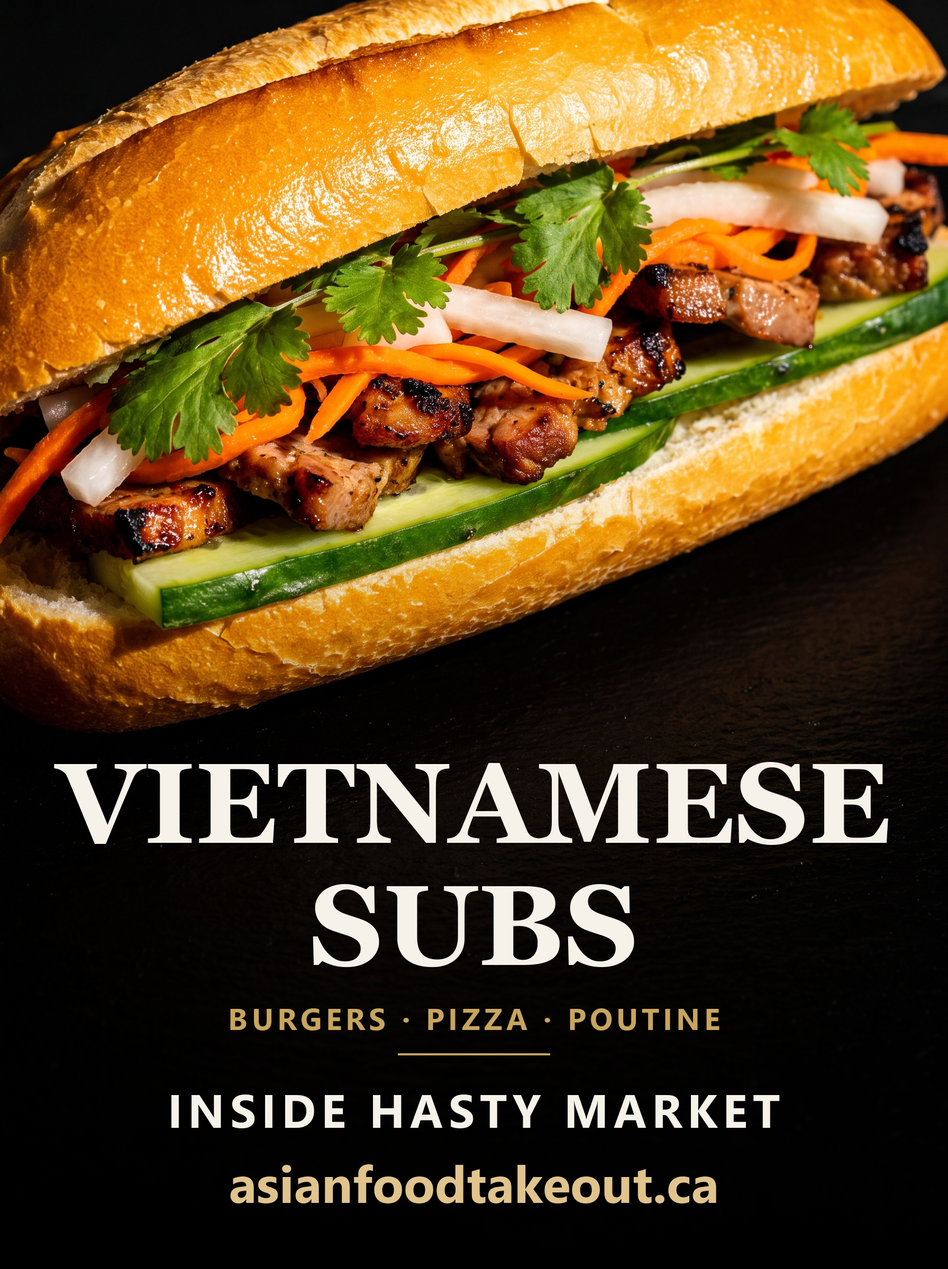
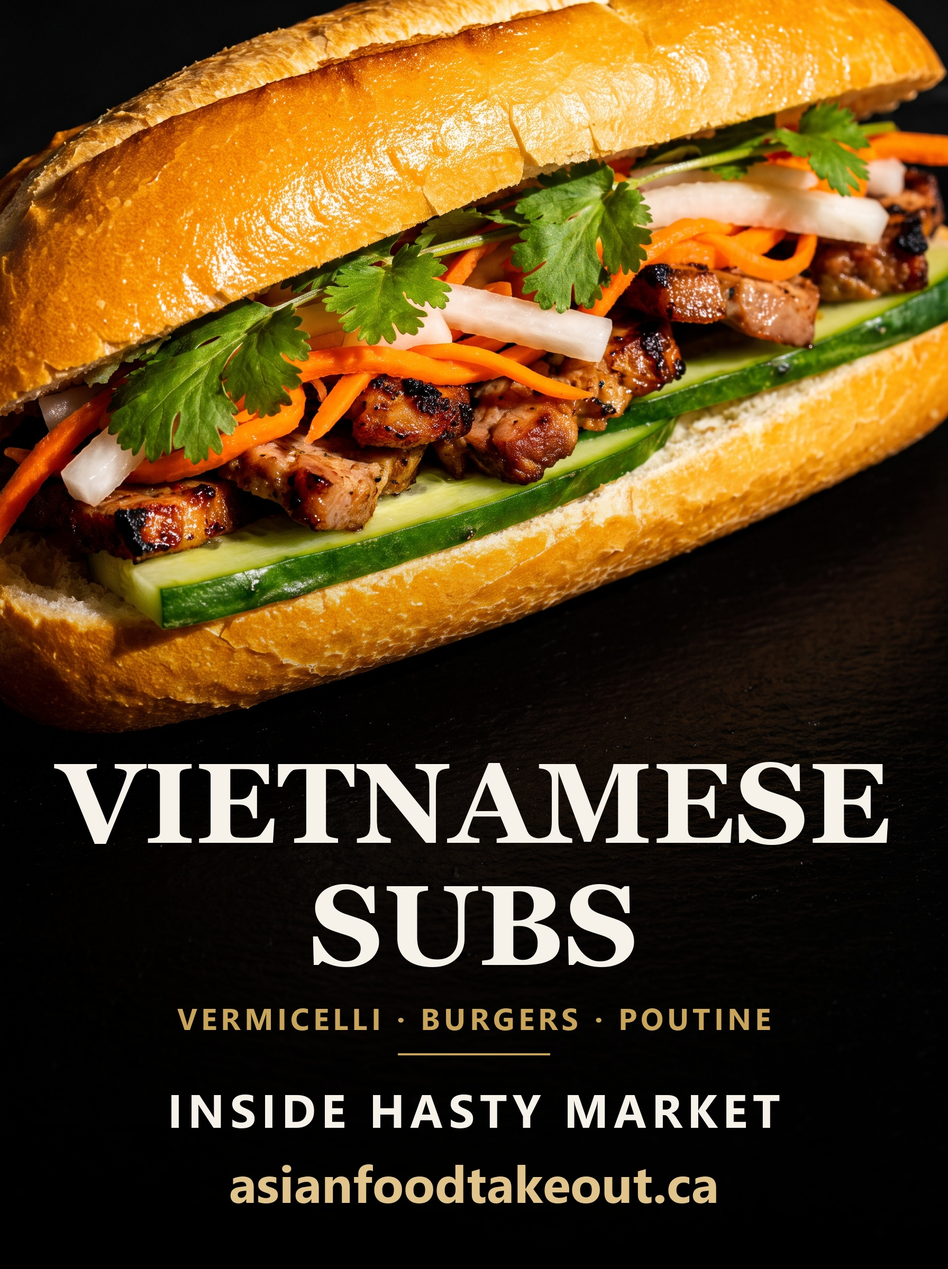
Take pizza out of the marketing copy; restore the full poster
Vermicelli replaces pizza throughout. It is a Vietnamese dish (menu item
8), so on the pieces that split the two menus it joins the Vietnamese
line rather than standing among the burgers and poutine; on the road
signs, which have one "and also" line, it leads it.

Restores the "Two Kitchens. One Counter." layout, which the sign rework
dropped — it is the full-information piece, the only one carrying the
address and phone, and it is still wanted. Removes footer_block, which
that rework had left behind as dead code.

Three pieces still show pizza in the PHOTOGRAPH. Type is drawn here, but
p3-mixed.png and p2-comfort.png contain pizza that cannot be typeset
away, and regenerating them needs Higgsfield credits (currently zero).
ROAD-A, WINDOW-A and the business card were never affected and are
printable as they stand — one complete roadside and one complete window
option. README records which is which.

Changed region(s): [[0.4375, 0.7812, 0.8125, 0.8125], [0.1875, 0.7812, 0.4062, 0.8125]]

diff --git a/marketing/make-posters.py b/marketing/make-posters.py
@@ -107,22 +107,6 @@ def rule(draw, y, W, width_frac=0.16, color=BRASS, thickness=3):
     draw.rectangle([W / 2 - half, y, W / 2 + half, y + thickness], fill=color)
 
 
-def footer_block(draw, W, y, big_site=True):
-    """Website, phone, address, hours — the part that has to be right."""
-    f_site = font(SANS_BOLD, int(W * (0.062 if big_site else 0.05)))
-    f_ph = font(SERIF_BOLD, int(W * 0.055))
-    f_sm = font(SANS, int(W * 0.026))
-
-    centered(draw, y, SITE, f_site, BRASS_SOFT, W, tracking=W * 0.001)
-    y += f_site.size * 1.35
-    centered(draw, y, PHONE, f_ph, CREAM, W)
-    y += f_ph.size * 1.5
-    centered(draw, y, ADDRESS, f_sm, CREAM, W, tracking=W * 0.0012)
-    y += f_sm.size * 1.55
-    centered(draw, y, HOURS, f_sm, BRASS, W, tracking=W * 0.0022)
-    return y + f_sm.size
-
-
 # ─────────────────────────── layouts ───────────────────────────
 #
 # Both signs sit ON the building, so the street address is dead weight on each:
@@ -247,6 +231,37 @@ def window_sign(src, out_name, kicker, headline_lines, items):
     render(src, out_name, build, 0.40, 0.44)
 
 
+def full_poster(src, out_name, kicker, headline_lines, items):
+    """
+    The full-information piece: logo, kicker, headline, dish lists, and the
+    complete footer down to the hours. Unlike the two signs it is NOT read at
+    speed or through glass — it is a handbill or a board someone stands in
+    front of, so it can afford the address and the phone number.
+    """
+    def build(W, scale):
+        rows = [("logo", int(W * 0.135 * scale), int(W * 0.030 * scale))]
+        rows.append(("text", kicker, font(SANS_BOLD, int(W * 0.024 * scale)), BRASS,
+                     W * 0.006 * scale, int(W * 0.030 * scale)))
+        fh = font(SERIF_BOLD, int(W * 0.093 * scale))
+        for i, line in enumerate(headline_lines):
+            gap = int(fh.size * 0.14) if i < len(headline_lines) - 1 else int(W * 0.028 * scale)
+            rows.append(("text", line, fh, CREAM, 0, gap))
+        rows.append(("rule", int(W * 0.020 * scale)))
+        fi = font(SERIF_ITALIC, int(W * 0.038 * scale))
+        for i, line in enumerate(items):
+            gap = int(fi.size * 0.34) if i < len(items) - 1 else int(W * 0.040 * scale)
+            rows.append(("text", line, fi, BRASS_SOFT, 0, gap))
+        rows.append(("text", SITE, font(SANS_BOLD, int(W * 0.060 * scale)), BRASS_SOFT,
+                     W * 0.001, int(W * 0.016 * scale)))
+        rows.append(("text", PHONE, font(SERIF_BOLD, int(W * 0.054 * scale)), CREAM,
+                     0, int(W * 0.026 * scale)))
+        fsm = font(SANS, int(W * 0.026 * scale))
+        rows.append(("text", ADDRESS, fsm, CREAM, W * 0.0012, int(W * 0.016 * scale)))
+        rows.append(("text", HOURS, fsm, BRASS, W * 0.0022, 0))
+        return rows
+    render(src, out_name, build, 0.42, 0.47)
+
+
 def business_card(src):
     """3.5 x 2 in at 300 dpi, plus 1/8 in bleed all round."""
     BLEED = 38
@@ -308,12 +323,16 @@ def business_card(src):
     print(f"  05-business-card  {W}x{H} (bleed) and {TW}x{TH} (trim)")
 
 
+# PIZZA REMOVED — see marketing/README.md. Vermicelli takes its place in
+# the copy. Vermicelli is a Vietnamese dish (menu item 8), so it joins the
+# Vietnamese line rather than standing among the burgers and poutine; on the
+# road signs, where there is only one "and also" line, it leads that line.
 print("building sign options\n")
 print(" ROAD — read from a moving car")
 road_sign("p4-roadsign.png", "ROAD-A-vietnamese.jpg",
-          "VIETNAMESE", "SUBS", "BURGERS · PIZZA · POUTINE")
+          "VIETNAMESE", "SUBS", "VERMICELLI · BURGERS · POUTINE")
 road_sign("p3-mixed.png", "ROAD-B-everything.jpg",
-          "ASIAN FOOD", "& MORE", "SUBS · BURGERS · PIZZA · POUTINE")
+          "ASIAN FOOD", "& MORE", "SUBS · VERMICELLI · BURGERS · POUTINE")
 
 print("\n WINDOW — read standing at the glass")
 window_sign("p1-asian.png", "WINDOW-A-asian.jpg",
@@ -324,8 +343,15 @@ window_sign("p1-asian.png", "WINDOW-A-asian.jpg",
 window_sign("p2-comfort.png", "WINDOW-B-comfort.jpg",
             "NOW SERVING",
             ["Burgers", "& More"],
-            ["Burgers  ·  Hot Dogs  ·  Pizza",
+            ["Burgers  ·  Hot Dogs",
              "Poutine  ·  Fries"])
+
+print("\n POSTER — full information, read standing still")
+full_poster("p3-mixed.png", "POSTER-two-kitchens.jpg",
+            INSIDE,
+            ["Two Kitchens.", "One Counter."],
+            ["Vietnamese Subs  ·  Rolls  ·  Vermicelli",
+             "Burgers  ·  Hot Dogs  ·  Poutine"])
 
 print()
 business_card("card-bg.png")

diff --git a/marketing/README.md b/marketing/README.md
@@ -1,18 +1,45 @@
 # Sign options
 
 Two signs are going up: one **roadside**, on the road outside the building, and
-one on the **window**. These are four candidates — pick one of each.
+one on the **window**. These are the candidates — pick one of each.
 
-| File | For | What it says |
-| --- | --- | --- |
-| `ROAD-A-vietnamese.jpg` | Roadside | One hero sub. "VIETNAMESE SUBS" |
-| `ROAD-B-everything.jpg` | Roadside | Both menus. "ASIAN FOOD & MORE" |
-| `WINDOW-A-asian.jpg` | Window | Asian menu, dish list, hours |
-| `WINDOW-B-comfort.jpg` | Window | Burgers/pizza/poutine, dish list, hours |
-| `05-business-card-with-bleed.jpg` | Print shop | Card with bleed |
-| `05-business-card-trim.jpg` | Preview only | Card as cut |
+| File | For | What it says | Ready? |
+| --- | --- | --- | --- |
+| `ROAD-A-vietnamese.jpg` | Roadside | One hero sub. "VIETNAMESE SUBS" | **Yes** |
+| `ROAD-B-everything.jpg` | Roadside | Both menus. "ASIAN FOOD & MORE" | Photo shows pizza |
+| `WINDOW-A-asian.jpg` | Window | Asian menu, dish list, hours | **Yes** |
+| `WINDOW-B-comfort.jpg` | Window | Burgers/hot dogs/poutine, hours | Photo shows pizza |
+| `POSTER-two-kitchens.jpg` | Handbill / board | Full info, both menus | Photo shows pizza |
+| `05-business-card-with-bleed.jpg` | Print shop | Card with bleed | **Yes** |
+| `05-business-card-trim.jpg` | Preview only | Card as cut | **Yes** |
 
-All 1792 × 2400 px, 3:4 portrait, tagged 300 dpi.
+All signs 1792 × 2400 px, 3:4 portrait, tagged 300 dpi.
+
+## Pizza is out; vermicelli is in
+
+Every line of **copy** has been updated — no piece mentions pizza any more.
+Vermicelli is a Vietnamese dish (menu item 8), so on the pieces that separate
+the two menus it joins the Vietnamese line rather than standing among the
+burgers and poutine. On the road signs, which have only one "and also" line, it
+leads that line.
+
+**Three pieces still show pizza in the photograph.** The type is drawn here in
+Python, but the food photography is generated, and `p3-mixed.png` and
+`p2-comfort.png` each contain pizza that cannot be typeset away:
+
+- `p3-mixed.png` — a pizza pan top right and a large slice centre right
+  (used by `ROAD-B` and `POSTER-two-kitchens`)
+- `p2-comfort.png` — two slices centre right (used by `WINDOW-B`)
+
+Regenerating those two frames needs Higgsfield credits. Nothing else is
+blocked: `p4-roadsign.png`, `p1-asian.png` and `card-bg.png` never had pizza in
+them, so `ROAD-A`, `WINDOW-A` and the business card are finished and printable
+as they stand — one complete roadside option and one complete window option.
+
+Compositing a real photo of a vermicelli bowl over the pizza was tried and
+rejected: in both owner photos the bowl runs off the edge of the frame, so
+there is no whole bowl to cut out, and a half bowl dropped into a flat-lay
+reads as a mistake at print size.
 
 ## Why the two are laid out differently
 
@@ -44,8 +71,8 @@ but do not promise a 4-foot sign at 300 dpi from these files.
 
 ## What is deliberately not on them
 
-**No prices.** None were supplied for the burgers, hot dogs, pizza or poutine,
-so any number would have been invented — and a sign outlives a price list.
+**No prices.** None were supplied for the burgers, hot dogs or poutine, so any
+number would have been invented — and a sign outlives a price list.
 
 **Hours read "KITCHEN 11 AM – 9 PM", not "OPEN DAILY".** The flyer gives the
 times but never says which days.
